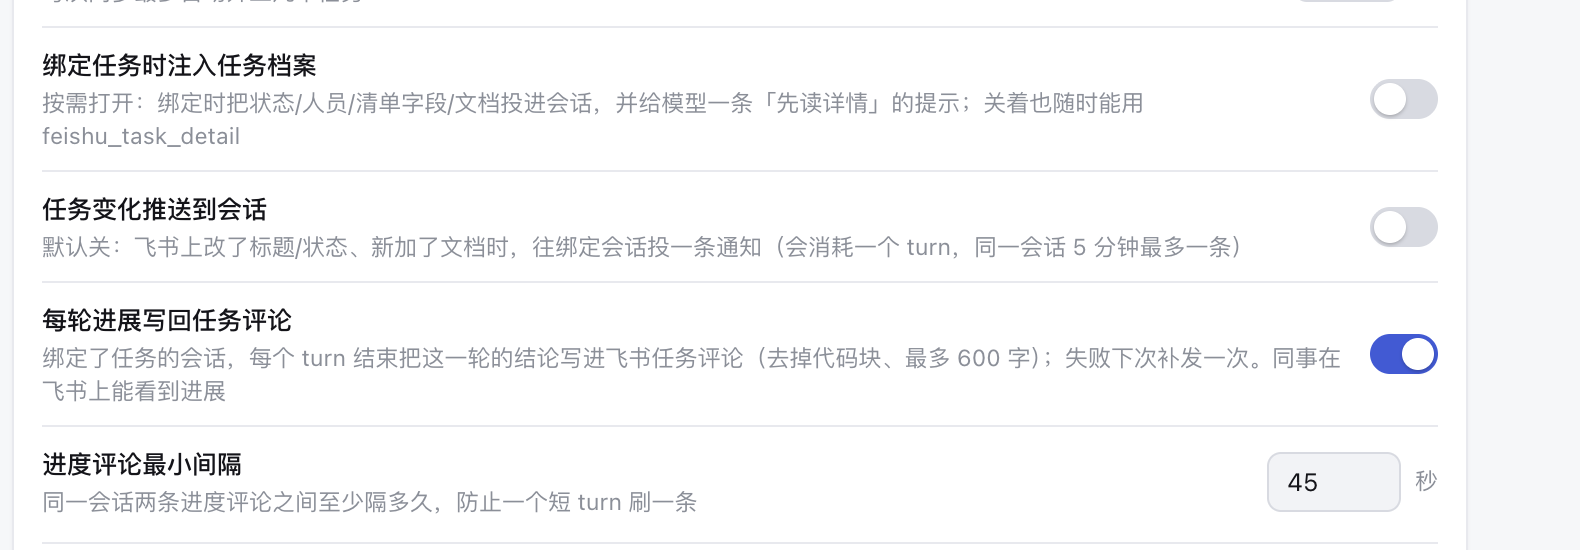
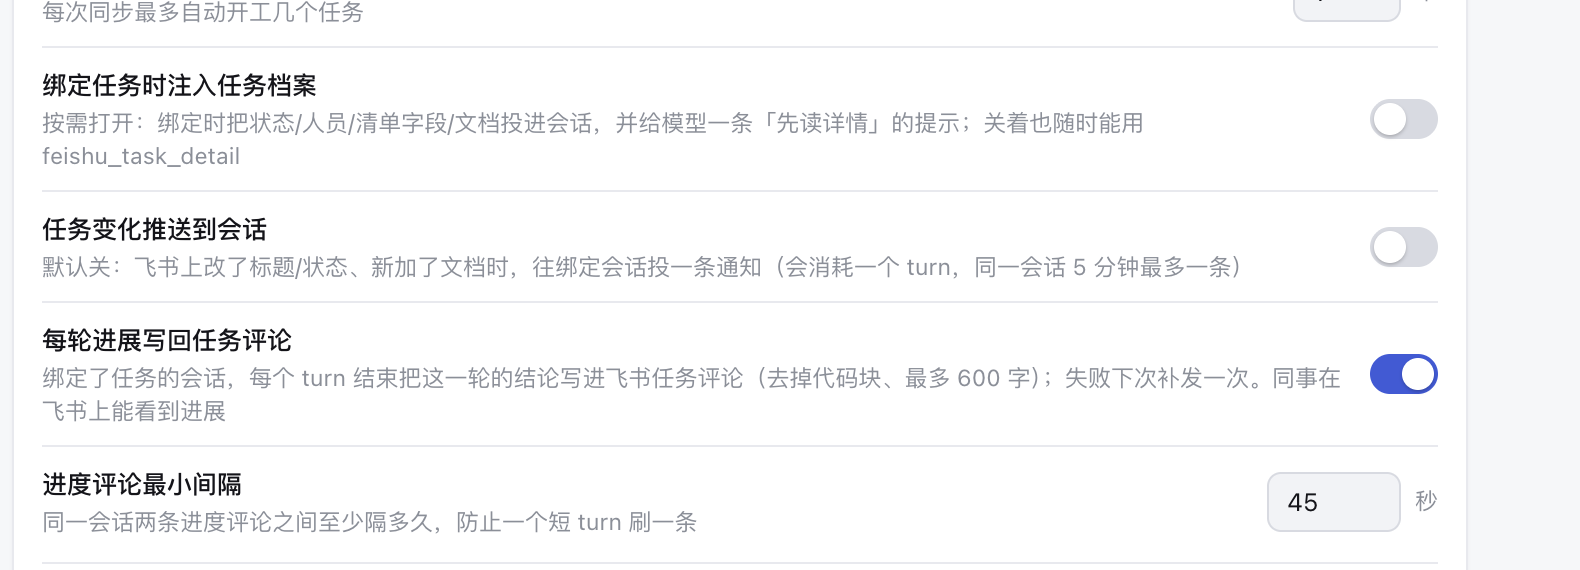
dsh-feishu 0.5.2 发布：修正「本轮失败」误判，插件在 desktop 上跑通了
0.5.1 上线后第一轮真实数据就把一个 bug 打出来了：评论标题写着「【进度 · 本轮失败】」，
但那一轮其实好好的。

## 修的是什么

`turn/end` 的 `reason` 是**对象**（`{ kind: 'stop' | 'max-tokens' | 'error', error?: { message } }`），
不是布尔。旧代码 `Boolean(reason)` 对所有正常结束的轮次也为真，于是每一条进度评论都被标成失败。

新增纯函数 `turnFailureOf(reason)`：只有 `kind === 'error'` 才算失败，并把 `reason.error.message` 带出来；
`stop` / `max-tokens` 之类一律按正常轮次处理。单测 7 条覆盖 null、缺失、stop、max-tokens、error（带/不带消息）、传布尔。

顺便把误标的那条评论从飞书任务上删掉了（T4 评论区已恢复干净）。

## 这次也确认了插件在 desktop 上是活的

link: 安装 + 热重载插件（`plugin_manager` 关再开，不重启宿主）之后：

- `/api/state` 出现了 0.5.x 才有的 `autoComment / autoCommentMinSeconds / contextInjection / pushChanges`
- 上一轮回复结束后，T4 的评论区里真的落下了一条进度评论（内容就是那段回复的开头，符合 600 字截断）
- 修完误判再重载一次，评论标题恢复成「【进度】」

## 截图

![任务面板总览（任务标题与人员已模糊）](https://raw.githubusercontent.com/kp-z/dsh-dev-git-graph/feat/dsh-feishu/packages/dsh-feishu/docs/shots/00-panel-overview.png)

![设置里的四个开关：绑定注入 / 变化推送 / 进展写回 / 最小间隔](https://raw.githubusercontent.com/kp-z/dsh-dev-git-graph/feat/dsh-feishu/packages/dsh-feishu/docs/shots/04-settings-toggles.png)

## 验证

- `node test/meta.mjs`（含新增 7 条失败判定）、`node test/client.mjs`
- 真实链路：进度评论落到飞书任务 → 发现「本轮失败」误标 → 修 → 重载 → 误标评论删除

diff --git a/packages/dsh-feishu/index.js b/packages/dsh-feishu/index.js
@@ -254,6 +254,19 @@ export function progressCommentBody(text, meta = {}, now = Date.now()) {
   return `${head}\n\n这一轮没有产出文本${meta.reason ? `，原因：${asString(meta.reason).slice(0, 200)}` : ''}`
 }
 
+/**
+ * `turn/end` 的 reason 是**对象**（`{ kind: 'stop' | 'max-tokens' | 'error', error?: { message } }`），
+ * 不是布尔。以前直接 `Boolean(reason)` 判断，于是每一轮都被标成「本轮失败」——
+ * 真实评论里看到「【进度 · 本轮失败】」但那一轮其实好好的，就是这个 bug。
+ */
+export function turnFailureOf(reason) {
+  if (!reason || typeof reason !== 'object' || Array.isArray(reason)) return { failed: false, text: '' }
+  const kind = asString(reason.kind)
+  if (kind !== 'error') return { failed: false, text: kind }
+  const message = asString(reason.error?.message ?? reason.failure?.message ?? reason.error ?? '')
+  return { failed: true, text: message || '未知错误' }
+}
+
 /** 状态枚举 → 人话。 */
 const STATUS_TEXT = { todo: '待办', done: '已完成', in_progress: '进行中', completed: '已完成' }
 
@@ -3561,13 +3574,14 @@ export function apply(ctx, config = {}) {
           if (type === 'turn/end') {
             const text = progressText.get(sessionId) ?? ''
             progressText.delete(sessionId)
+            const failure = turnFailureOf(event?.data?.reason)
             void engine
               .flushPendingProgress()
               .catch(() => undefined)
               .then(() =>
                 engine.commentProgress(sessionId, text, {
-                  failed: Boolean(event?.data?.reason),
-                  reason: asString(event?.data?.reason),
+                  failed: failure.failed,
+                  reason: failure.text,
                 }),
               )
               .catch(() => undefined)
